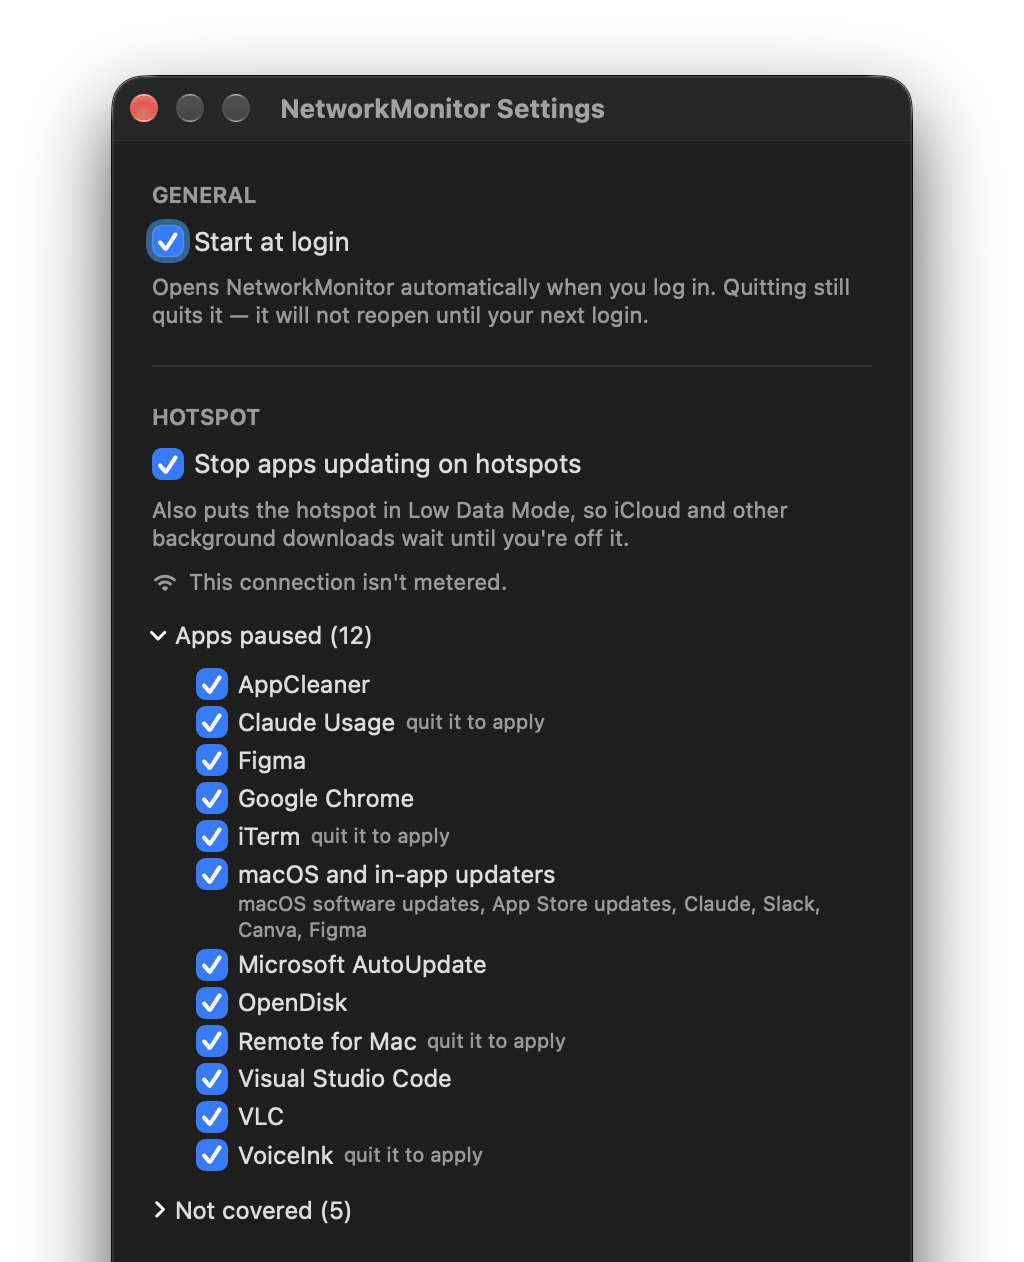
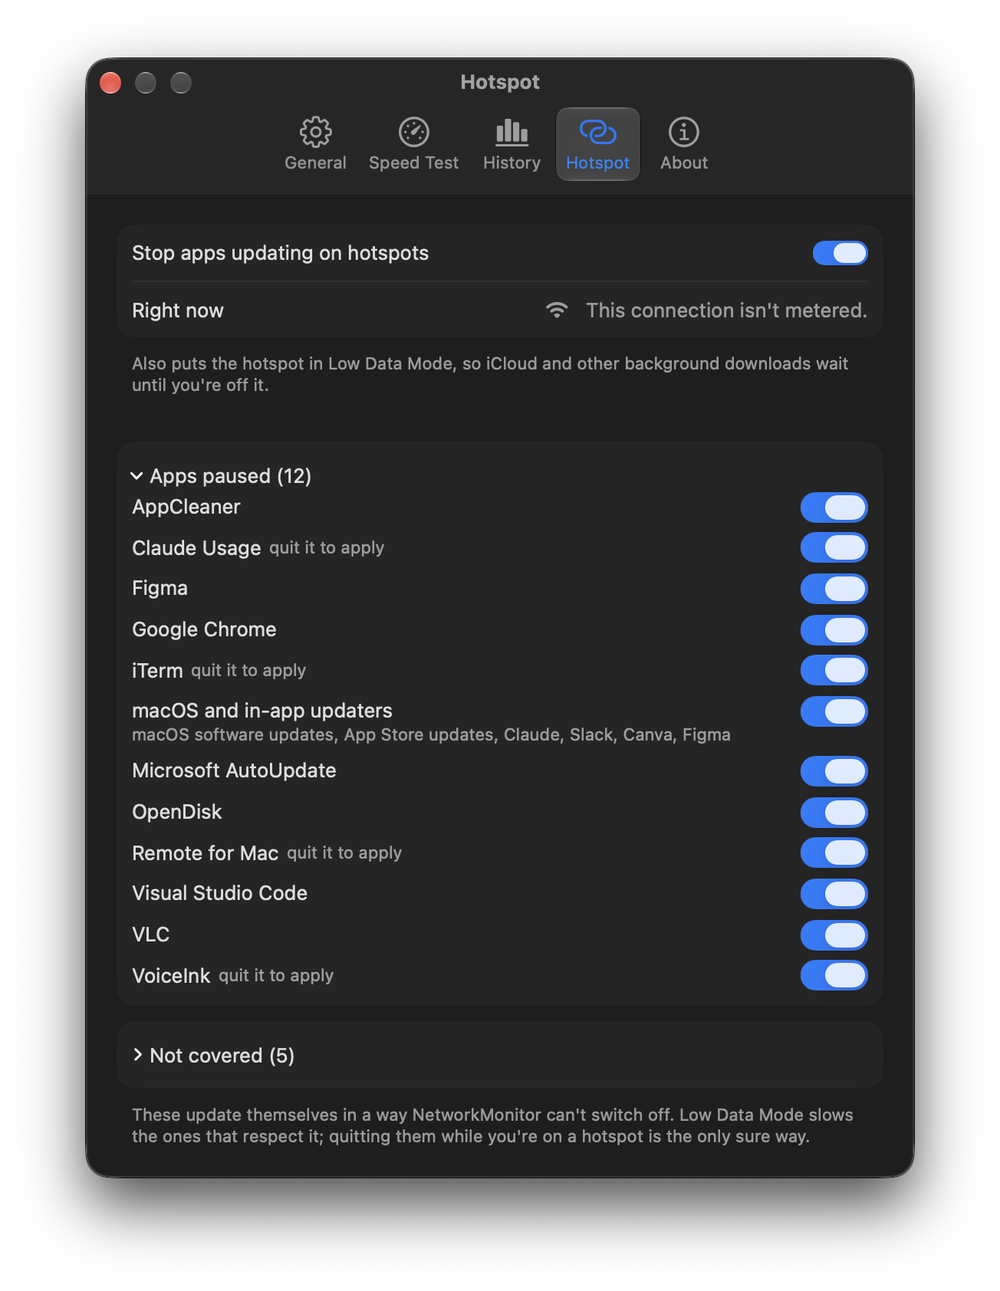
Bring the site up to 1.6.0, with the new Settings
Retake the Settings screenshot from the Hotspot pane of the redesigned
window, and say that Uninstall… is in Settings › About too. Part of #10.

Changed region(s): [[0.062, 0.0309, 0.961, 1.0]]

diff --git a/index.html b/index.html
@@ -354,7 +354,7 @@ footer a { color: var(--text-2); }
         <a class="btn" href="https://github.com/kevinabouhanna/NetworkMonitor/releases/latest/download/NetworkMonitor.dmg" data-download>Download for Mac</a>
         <a class="more" href="https://github.com/kevinabouhanna/NetworkMonitor">View on GitHub</a>
       </div>
-      <p class="hero-meta reveal d3"><span>Version 1.5.1</span><span>macOS 13 or later</span><span>Apple silicon and Intel</span><span>Free and open source</span></p>
+      <p class="hero-meta reveal d3"><span>Version 1.6.0</span><span>macOS 13 or later</span><span>Apple silicon and Intel</span><span>Free and open source</span></p>
       <div class="featured reveal d3">
         <a href="https://www.trymacapps.com" target="_blank" rel="noopener">
           <img
@@ -529,8 +529,8 @@ footer a { color: var(--text-2); }
 
       <div class="hotspot-grid">
         <figure class="settings-shot reveal" style="margin:0">
-          <img src="assets/settings-hotspot.png" width="1024" height="1262" loading="lazy"
-               alt="NetworkMonitor Settings. Start at login is on. Under Hotspot, Stop apps updating on hotspots is on, with the note that it also puts the hotspot in Low Data Mode so iCloud and other background downloads wait, then This connection isn't metered. Apps paused (12) is expanded: AppCleaner, Claude Usage, Figma, Google Chrome, iTerm, macOS and in-app updaters, Microsoft AutoUpdate, OpenDisk, Remote for Mac, Visual Studio Code, VLC and VoiceInk. Not covered (5) is collapsed below.">
+          <img src="assets/settings-hotspot.png" width="1000" height="1291" loading="lazy"
+               alt="NetworkMonitor Settings, on its Hotspot pane, with General, Speed Test, History, Hotspot and About in the toolbar. Stop apps updating on hotspots is switched on; Right now reads This connection isn't metered; a note says it also puts the hotspot in Low Data Mode so iCloud and other background downloads wait. Apps paused (12) is open, each with its own switch: AppCleaner, Claude Usage, Figma, Google Chrome, iTerm, macOS and in-app updaters, Microsoft AutoUpdate, OpenDisk, Remote for Mac, Visual Studio Code, VLC and VoiceInk. Not covered (5) is collapsed below.">
           <figcaption class="caption" style="text-align:center">Settings on the Mac this page was built on: 12 apps covered, each with its own switch.</figcaption>
         </figure>
         <div class="facts">
@@ -561,7 +561,7 @@ footer a { color: var(--text-2); }
       <div class="fine reveal">
         <p style="margin:0"><b>Not a firewall.</b>It changes each app’s own “check for updates automatically” setting. A manual Check for Updates… still works: it stops unattended downloads, not you.</p>
         <p style="margin:0"><b>Security updates pause too.</b>There’s no reliable way to tell a security patch from a feature release, and pretending otherwise would be worse. Leave the hotspot or turn the setting off and everything resumes.</p>
-        <p style="margin:0"><b>Puts everything back.</b>Right-click the menu bar item and choose Uninstall NetworkMonitor…. It restores every setting exactly as it found it, then removes the helper and moves the app to the Trash.</p>
+        <p style="margin:0"><b>Puts everything back.</b>Click Uninstall… in Settings › About, or right-click the menu bar item and choose Uninstall NetworkMonitor…. It restores every setting exactly as it found it, then removes the helper and moves the app to the Trash.</p>
       </div>
     </div>
   </section>
@@ -647,7 +647,7 @@ footer a { color: var(--text-2); }
           <p>The usual Mac way: open the disk image and drag NetworkMonitor into <strong>Applications</strong>.</p>
           <div class="get">
             <a class="btn" href="https://github.com/kevinabouhanna/NetworkMonitor/releases/latest/download/NetworkMonitor.dmg" data-download>Download NetworkMonitor.dmg</a>
-            <span class="meta">Version 1.5.1 · 2.9 MB · Universal</span>
+            <span class="meta">Version 1.6.0 · 2.9 MB · Universal</span>
           </div>
           <figure class="dmg-shot" style="margin-bottom:0">
             <img src="assets/dmg-window.png" width="1424" height="1104" loading="lazy"
@@ -664,7 +664,7 @@ footer a { color: var(--text-2); }
       </div>
 
       <div class="ctas reveal">
-        <a class="more" href="https://github.com/kevinabouhanna/NetworkMonitor/releases/tag/v1.5.1">What’s in version 1.5.1</a>
+        <a class="more" href="https://github.com/kevinabouhanna/NetworkMonitor/releases/tag/v1.6.0">What’s in version 1.6.0</a>
         <a class="more" href="https://github.com/kevinabouhanna/NetworkMonitor">View on GitHub</a>
       </div>
     </div>
